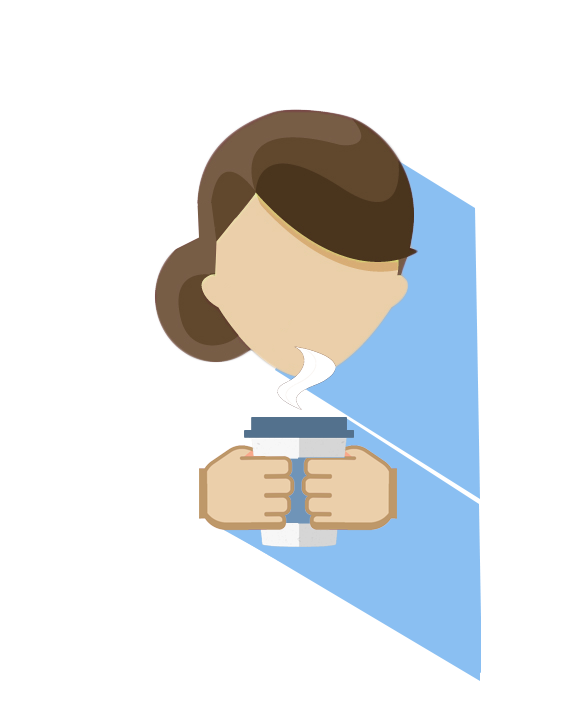
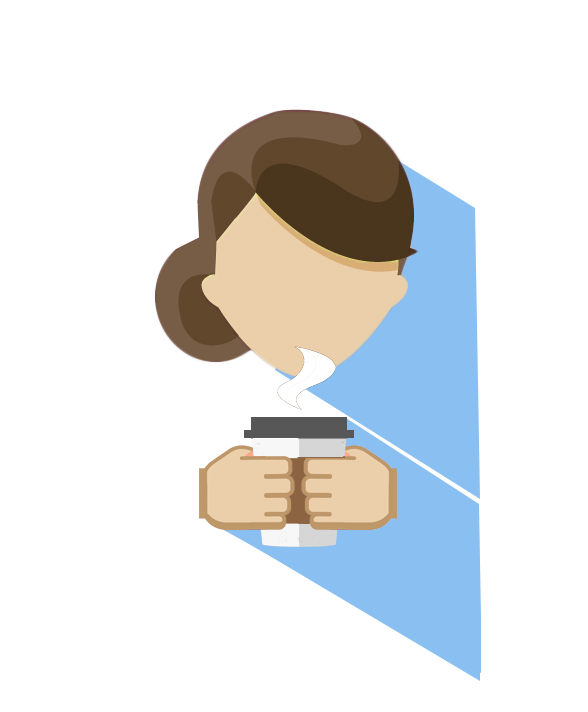
updated images and layout for studassqueue

Changed region(s): [[0.398, 0.5871, 0.6122, 0.7416]]

diff --git a/src/components/StudassQueue.js b/src/components/StudassQueue.js
@@ -76,11 +76,23 @@ renderImage() {
   const gender = 'male';
   //eslint comments lets us retrieve image!!!
   /* eslint-disable global-require */
-  const icon = gender === 'female' ? require('./images/girlstud.png') : require('./images/astudquestion.png');
+  const icon = gender === 'female' ? require('./images/studassqueuewoman.png') : require('./images/studassqueue.png');
   return (
     <Image
       style={styles.imageStyle}
       source={icon}
+    />
+  );
+/* eslint-enable global-require */
+}
+
+renderArrowDownImage() {
+  //eslint comments lets us retrieve image!!!
+  /* eslint-disable global-require */
+  return (
+    <Image
+    style={styles.imageStyle}
+    source={require('./images/arrowdownblue.png')}
     />
   );
 /* eslint-enable global-require */
@@ -134,12 +146,18 @@ renderScreen() {
           {this.renderImage()}
         </View>
 
+        <View style={{ flex: 1, backgroundColor: '#213140', borderRadius: 5, marginLeft: 40, marginRight: 40, paddingBottom: 10, marginBottom: 20 }}>
+
+          <View style={{ height: 10, alignItems: 'center' }}>
+            {this.renderArrowDownImage()}
+          </View>
+
         <View style={styles.infoView}>
           <Text style={styles.textStyle}>{this.props.first}</Text>
         </View>
 
         <View style={styles.ContainerView}>
-        <View>
+            <View>
               <Text style={styles.textStyle2}>Students in line: </Text>
             </View>
             <View>
@@ -148,6 +166,7 @@ renderScreen() {
               </Text>
             </View>
         </View>
+      </View>
 
         <View style={styles.buttonView}>
           <ButtonBlue onPress={this.onQuitPress.bind(this)}>
@@ -190,14 +209,16 @@ renderScreen() {
       flex: 1,
       flexDirection: 'row',
       justifyContent: 'center',
-      alignItems: 'flex-start',
+      alignItems: 'center',
     },
     infoView: {
       flexDirection: 'column',
       justifyContent: 'center',
       alignItems: 'center',
-      marginTop: 5,
-      marginBottom: 5
+      marginLeft: 40,
+      marginRight: 40,
+      borderBottomWidth: 1,
+      borderColor: '#ffffff'
     },
     nextView: {
       flexDirection: 'column',
@@ -217,7 +238,10 @@ renderScreen() {
       fontFamily: 'bebasNeue'
     },
     textStyle2: {
-      fontSize: 18
+      color: '#F58C6C',
+      fontFamily: 'bebasNeue',
+      fontSize: 25,
+
     }
 
   };

diff --git a/src/actions/getNameActions.js b/src/actions/getNameActions.js
@@ -1,7 +1,8 @@
 
 import firebase from 'firebase';
 import {
-  GET_MY_NAME
+  GET_MY_NAME,
+  GET_MY_GENDER
  } from './types';
 
 
@@ -11,6 +12,16 @@ export const getMyName = () => {
   return (dispatch) => {
         ref.on('value', snapshot => {
           dispatch({ type: GET_MY_NAME, payload: snapshot.val().toString() });
+      });
+  };
+};
+
+export const getMyGender = () => {
+  const userUID = firebase.auth().currentUser.uid;
+  const { ref } = firebase.database().ref(`users/${userUID}/gender`);
+  return (dispatch) => {
+        ref.on('value', snapshot => {
+          dispatch({ type: GET_MY_GENDER, payload: snapshot.val().toString() });
       });
   };
 };

diff --git a/src/reducers/getNameReducer.js b/src/reducers/getNameReducer.js
@@ -1,9 +1,11 @@
 import {
-GET_MY_NAME
+GET_MY_NAME,
+GET_MY_GENDER
 } from '../actions/types';
 
 const INITIAL_STATE = {
-    myName: ''
+    myName: '',
+    myGender: ''
 };
 
 export default (state = INITIAL_STATE, action) => {
@@ -11,7 +13,9 @@ export default (state = INITIAL_STATE, action) => {
       case GET_MY_NAME:
       console.log('My name', action);
         return { ...state, myName: action.payload };
-
+      case GET_MY_GENDER:
+        console.log('My name', action);
+          return { ...state, myGender: action.payload };
       default:
         return state;
     }

diff --git a/src/actions/types.js b/src/actions/types.js
@@ -78,4 +78,5 @@ export const GET_MY_NAME = 'GET_MY_NAME';
 export const QUIT = 'QUIT';
 export const LOADING_BUTTON = 'LOADING_BUTTON';
 export const FIRST_KEY = 'FIRST_KEY';
+export const GET_MY_GENDER = 'GET_MY_GENDER';
 //////////////////////////////////////////////////////////////////////

diff --git a/src/Router.js b/src/Router.js
@@ -113,6 +113,7 @@ const RouterComponent = () => {
             key="studassQueue"
             component={StudassQueue}
             title="Queue"
+            hideNavBar
           />
           <Scene
             key="inQueue"

diff --git a/src/components/common/ButtonTextGreen.js b/src/components/common/ButtonTextGreen.js
@@ -25,7 +25,8 @@ const styles = {
   buttonStyle: {
     flex: 1,
     alignSelf: 'stretch',
-    backgroundColor: '#83e283'
+    backgroundColor: '#83e283',
+    justifyContent: 'center'
 
   }
 };
